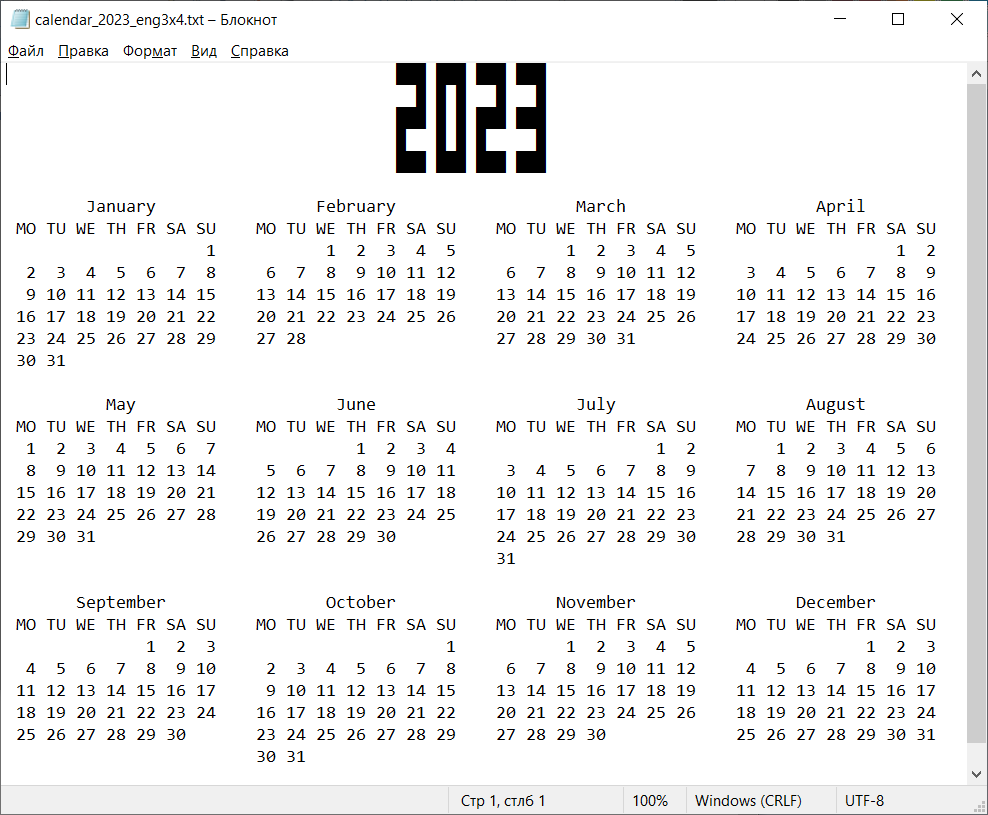
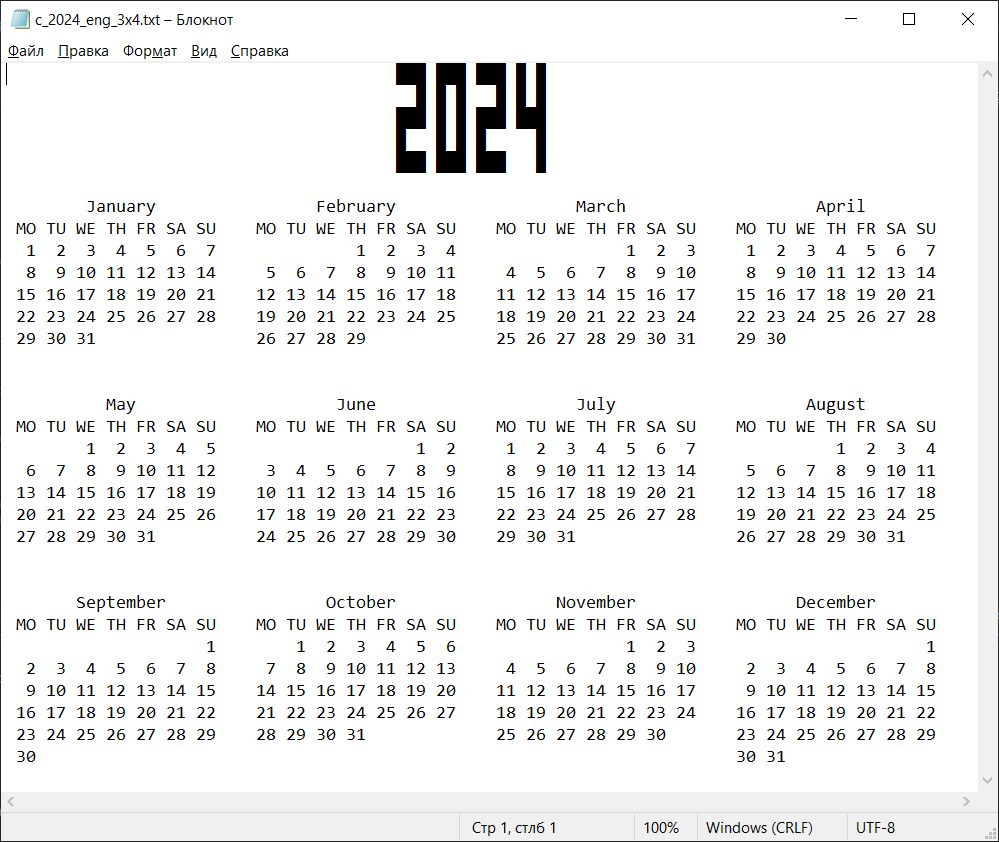
new year 2024

diff --git a/Calendar_Generator/main.cpp b/Calendar_Generator/main.cpp
@@ -22,15 +22,14 @@ wstring fit_to_right(wstring x, size_t width) {
 	return wstring(max(size_t(0), width - x.size()), L' ') + x;
 }
 
-void generate_calendar(int year, string filename, const wstring* months_names, const wstring* day_of_week, int height) {
+void generate_calendar(const int year, string filename, const wstring* months_names, const wstring* day_of_week, const int height) {
 	const locale utf8_locale = locale(locale(), new codecvt_utf8<wchar_t>());
 	wofstream fout(filename);
 	fout.imbue(utf8_locale);
 
-	//int height = 4;
-	int width = 12 / height;
+	const int width = 12 / height;
 
-	int width_in_symbols = 3 * 7 * width + 3 * (width - 1);
+	const int width_in_symbols = 3 * 7 * width + 3 * (width - 1);
 
 	for (int i = 0; i < 5; i++) {
 		wstring t;
@@ -105,43 +104,43 @@ int main() {
 	cout << "Input year (1970-3000): ";
 	cin >> this_year;
 	if (this_year < 1970 || this_year > 3000) {
-		cout << "Error: expected 1970 - 3000\n";
-		return 0;
+		cout << "Error: expected 1970 - 3000" << endl;
+		return -1;
 	}
 	
 	string lang;
 	cout << "Language (eng/rus): ";
 	cin >> lang;
 	if (lang != "eng" && lang != "rus") {
-		cout << "Error: expected \"eng\" or \"rus\"\n";
-		return 0;
+		cout << "Error: expected \"eng\" or \"rus\"" << endl;
+		return -1;
 	}
 
 	int height;
-	cout << "Input number of rows(1, 2, 3, 4, 6, 12): ";
+	cout << "Input number of rows (1/2/3/4/6/12): ";
 	cin >> height;
 	if (height <= 0 || 12 % height != 0) {
-		cout << "Error: expected another number of rows\n";
-		return 0;
+		cout << "Error: expected another number of rows" << endl;
+		return -1;
 	}
 
 	string year_string = to_string(this_year);
-	string filename = "calendar_" + year_string;
+	string filename = "c_" + year_string;
 
 	if (lang == "eng") {
-		filename += "_eng" + to_string(height) + "x" + to_string(12 / height) + ".txt";
+		filename += "_" + lang + "_" + to_string(height) + "x" + to_string(12 / height) + ".txt";
 		generate_calendar(this_year, filename, months_names, day_of_week, height);
 	}
 	else if (lang == "rus") {
-		filename += "_rus" + to_string(height) + "x" + to_string(12 / height) + ".txt";
+		filename += "_" + lang + "_" + to_string(height) + "x" + to_string(12 / height) + ".txt";
 		generate_calendar(this_year, filename, months_names_ru, day_of_week_ru, height);
 	}
 	else {
-		cout << "expected \"eng\" or \"rus\"\n";
-		return 0;
+		cout << "expected \"eng\" or \"rus\"" << endl;
+		return -1;
 	}
 
-	cout << "calendar saved in file " << filename << "\n";
+	cout << "calendar saved in file " << filename << endl;
 
 	return 0;
 }

diff --git a/Calendar_Generator/calendar_constants.h b/Calendar_Generator/calendar_constants.h
@@ -1,28 +1,28 @@
-#pragma once
+#ifndef CALENDAR_CONSTANTS_H
+#define CALENDAR_CONSTANTS_H
 
 #include <string>
-using namespace std;
 
-const wstring months_names[]
+const std::wstring months_names[]
 { L"January",L"February",
 L"March",L"April",L"May",
 L"June",L"July",L"August",
 L"September",L"October",L"November",
 L"December" };
 
-const wstring months_names_ru[]
+const std::wstring months_names_ru[]
 { L"Январь",L"Февраль",
 L"Март",L"Апрель",L"Май",
 L"Июнь",L"Июль",L"Август",
 L"Сентябрь",L"Октябрь",L"Ноябрь",
 L"Декабрь" };
 
-const wstring day_of_week[]
+const std::wstring day_of_week[]
 {
 	L"MO",L"TU",L"WE",L"TH",L"FR",L"SA",L"SU"
 };
 
-const wstring day_of_week_ru[]
+const std::wstring day_of_week_ru[]
 {
 	L"ПН",L"ВТ",L"СР",L"ЧТ",L"ПТ",L"СБ",L"ВС"
 };
@@ -32,7 +32,7 @@ const int month_length[2][12]{
 	{31,29,31,30,31,30,31,31,30,31,30,31}
 };
 
-const wstring big_digit[10][5]{
+const std::wstring big_digit[10][5]{
 	{L"███",
 	 L"█ █",
 	 L"█ █",
@@ -93,3 +93,5 @@ const wstring big_digit[10][5]{
 	 L"  █",
 	 L"███"}
 };
+
+#endif // !CALENDAR_CONSTANTS_H
